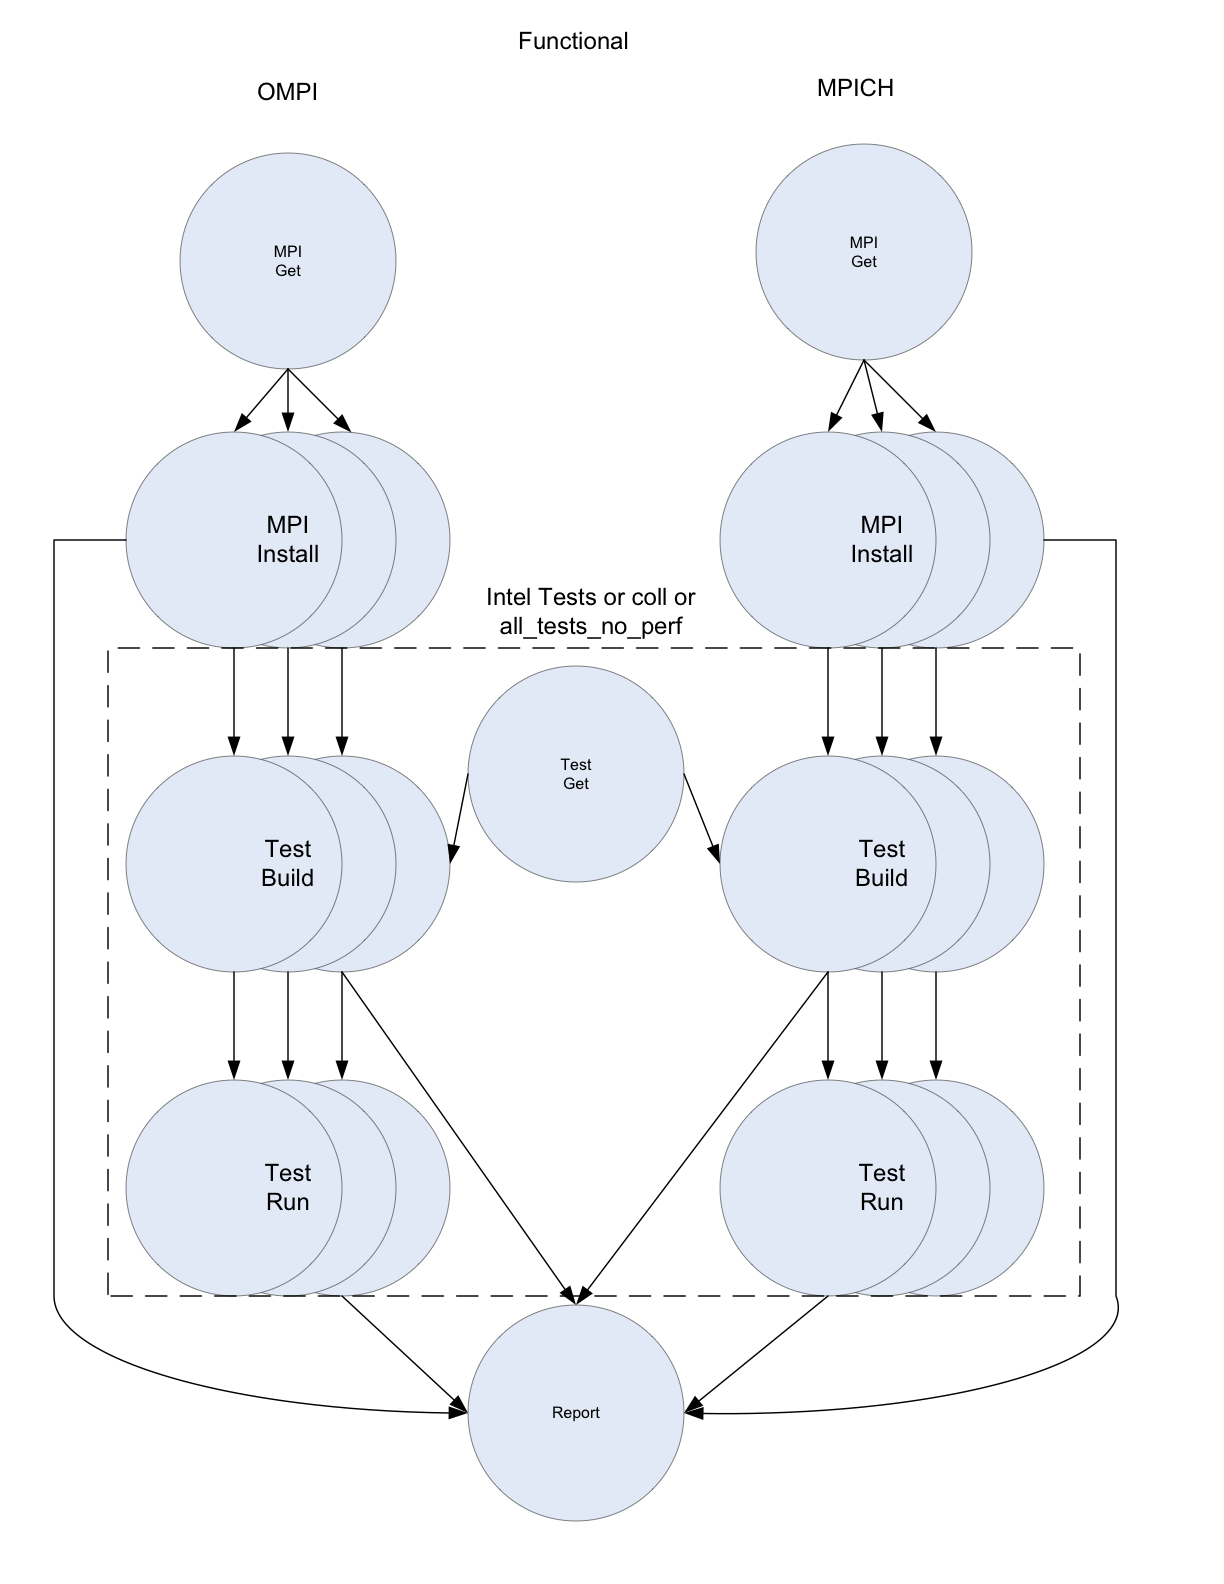
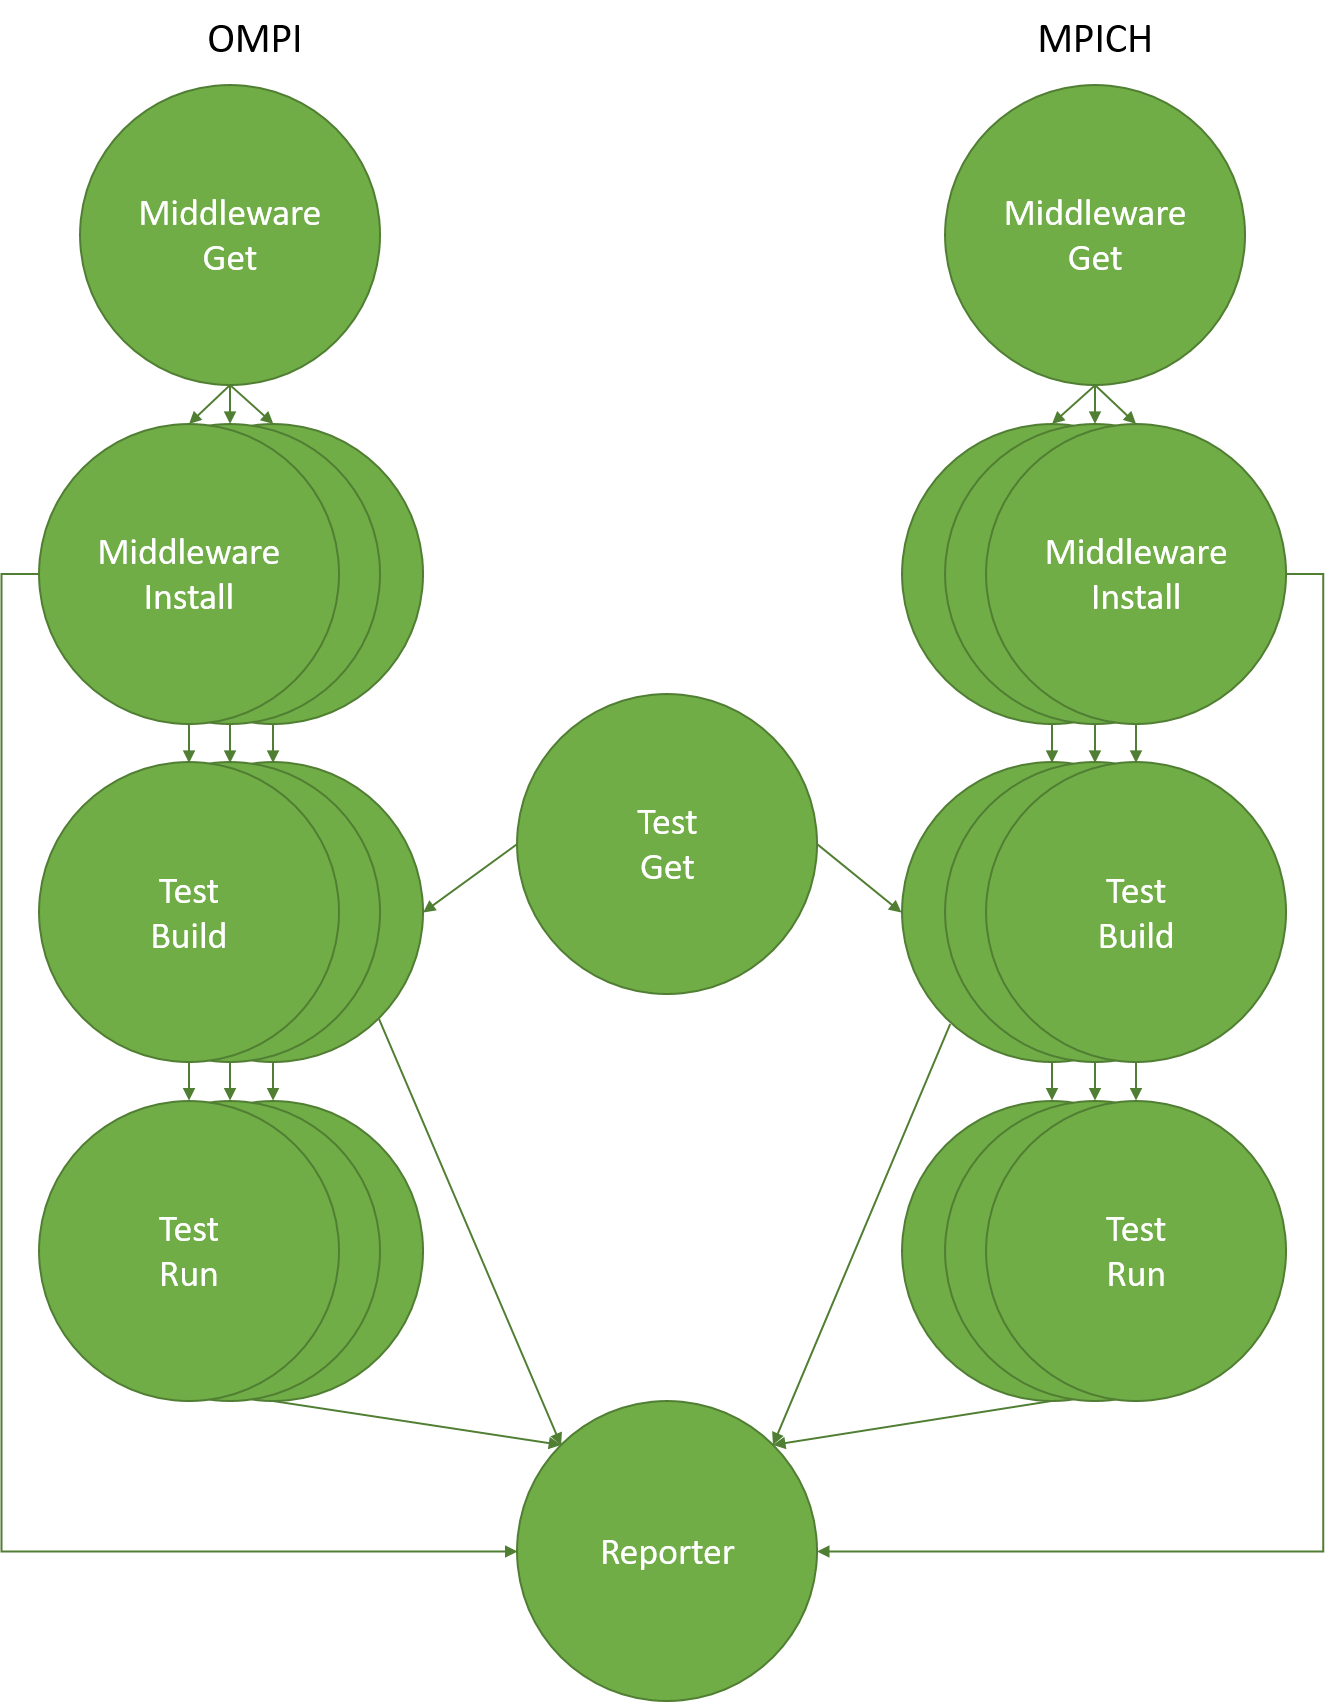
Deploy Jagaskak/mtt to github.com/Jagaskak/mtt.git:gh-pages

diff --git a/latex/refman.tex b/latex/refman.tex
@@ -67,8 +67,8 @@
 \fancyhead[RO]{\fancyplain{}{\bfseries\thepage}}
 \fancyfoot[LE]{\fancyplain{}{}}
 \fancyfoot[CE]{\fancyplain{}{}}
-\fancyfoot[RE]{\fancyplain{}{\bfseries\scriptsize Generated on Wed Aug 8 2018 22\-:40\-:21 for pymtt by Doxygen }}
-\fancyfoot[LO]{\fancyplain{}{\bfseries\scriptsize Generated on Wed Aug 8 2018 22\-:40\-:21 for pymtt by Doxygen }}
+\fancyfoot[RE]{\fancyplain{}{\bfseries\scriptsize Generated on Thu Aug 9 2018 22\-:47\-:27 for pymtt by Doxygen }}
+\fancyfoot[LO]{\fancyplain{}{\bfseries\scriptsize Generated on Thu Aug 9 2018 22\-:47\-:27 for pymtt by Doxygen }}
 \fancyfoot[CO]{\fancyplain{}{}}
 \fancyfoot[RO]{\fancyplain{}{}}
 \renewcommand{\footrulewidth}{0.4pt}
@@ -120,7 +120,7 @@
 \vspace*{1cm}
 {\large Generated by Doxygen 1.8.6}\\
 \vspace*{0.5cm}
-{\small Wed Aug 8 2018 22:40:21}\\
+{\small Thu Aug 9 2018 22:47:27}\\
 \end{center}
 \end{titlepage}
 \clearemptydoublepage

diff --git a/README.md b/README.md
@@ -13,37 +13,15 @@ order to run a common set of tests against a group of Middleware implementations
 
 # Overview
 
-The MTT divides its execution into 12 stages:
+MTT is divided into multiple phases of execution to split up grabbing content, building content, running content, and reporting results (please refer to the [INI documentation](/mtt/docs/pages/ini_docs.html) to learn more).
 
-1. MTTDefaults: Define options for test, such as description and what system it is running on
-2. BIOS: Set the BIOS settings for target nodes before running test
-3. Firmware: Install the firmware to target nodes before running test
-4. Provision: Provision the nodes with an OS before running test
-5. Profile: Collect data of current system configuration before running test 
-6. MiddlewareGet: Obtain middleware software package(s) (e.g., download, copy)
-7. MiddlewareBuild: Install the middleware software package(s) obtained in MiddlewareGet (this may involve a binary installation or a build from source)
-8. TestGet: Obtain middleware test(s)
-9. TestBuild: Build the test(s) against all middleware installations
-10. LauncherDefaults
-11. TestRun
-12. Reporter
- 
-13. MiddlewareGet: obtain middleware software package(s) (e.g., download, copy)
-14. MiddlewareBuild: install the middleware software package(s) obtained in phase 1.
-   This may involve a binary installation or a build from source.
-15. TestGet: obtain middleware test(s)
-16. TestBuild: build the test(s) against all middleware installations
-   installed in phase 2.
-17. TestRun: run all the tests build in phase 4.
-18. Report: report the results of phases 2, 4, and 5.
+The phases are divided to allow a multiplicative effect.  For example, each middleware package obtained may be installed in multiple different ways.  The built tests may be executed in multiple different ways. And so on.
 
-The phases are divided in order to allow a multiplicative effect.  For example, each MPI package obtained in phase 1 may be installed in multiple different ways in phase 2.  Tests that are built in phase 4 may be run multiple different ways in phase 5.  And so on.
-
-Phases are effectively templated to allow multiple executions of each phase based on parameterization. For example, you can specify a single middleware implementation, but have MTT compile it against both the GNU and Intel compilers. MTT will automatically track that there is one MPI source, but two installations of it. Every test suite that is specified will therefore be compiled and run against _both_ MPI installations, and their results filed accordingly. Hence, the MTT gives a multiplicitive effect. A simplistic view:
--   M MPI implementations are specified
--   I installations of each MPI implementation are specified
+Phases are effectively templated to allow multiple executions of each phase based on parameterization. For example, you can specify a single middleware implementation, but have MTT compile it against both the GNU and Intel compilers. MTT will automatically track that there is one middleware source, but two installations of it. Every test suite that is specified will therefore be compiled and run against _both_ middleware installations, and their results filed accordingly. Hence, the MTT gives a multiplicitive effect. A simplistic view:
+-   M middleware implementations are specified
+-   I installations of each middleware implementation are specified
 -   A total of (M * I) installations are created (assuming all are successful)
--   T test suites are specified, each of which is compiled against the (M * I) MPI installation
+-   T test suites are specified, each of which is compiled against the (M * I) middleware installation
 -   R different run parameters are specified for each test suite
 -   A total of (T * R * M * I) tests are run.
 
@@ -53,21 +31,17 @@ Hence, you must be careful not to specify too much work to MTT -- it will happil
 
 The following graphic is a decent representation of the relationships of the phases to each other, and the general sequence of phases. It shows two example middleware implementations (open MPI and MPICH), but any middleware implementation could be used (even multiple versions of the same middleware implementation):
 
-![](https://github.com/open-mpi/mtt/wiki/mtt-functional.png)
+![](/mtt/docs/pages/mtt-functional.png)
 
 # Quick start
-Testers run the MTT client on their systems to do all the work.  A configuration file is used to specify which MPI implementations to use and which tests to run.  
+Testers run the MTT client on their systems to do all the work.  A configuration file is used to specify which middleware implementations to use and which tests to run.  
 
 The Open MPI Project uses MTT for nightly regression testing.  A sample Python client configuration file is included in samples/python/ompi_hello_world.ini.  It is also suitable as an example for organizations outside of the Open MPI Project.
 
-## Nightly Regression Testing
-**Do we still need this?**
+# Nightly Regression Testing
 Open MPI members should visit the [MTT Wiki](https://github.com/open-mpi/mtt/wiki/OMPITesting) for instructions on how to setup for nightly regression testing.
 
-Note that the INI file can be used to specify web proxies if
-necessary.  See comments in the ompi-core-template.ini file for
-details.
-
+To configure nightly testing with Travis CI, please refer to the [Travis CI documentation](/mtt/pages/travis.html).
 
 # Running the MTT Python client
 
@@ -81,13 +55,6 @@ The MTT client has many command line options; try the following command to see t
 Some sites add an upper layer of logic/scripting above the invocation of the MTT client.  For example, some sites run the MTT on SLURM-maintained clusters.  A variety of compilers are tested, yielding multiple unique (MiddlewareGet, MiddlewareBuild, TestGet, TestBuild) tuples. Each tuple is run in its own 1-node SLURM allocation, allowing the many installations/builds to run in parallel.  When the install/build tuple has completed, more SLURM jobs are queued for  each desired number of nodes/processes to test.  These jobs all execute in parallel (pending resource availability) in order to achieve maximum utilization of the testing cluster.
 
 Other scenarios are also possible; the above is simply one way to use MTT.
-
-# Current status
-This tool was initially developed by the Open MPI team for nightly and periodic compile and regression testing.  However, enough other parties have expressed [significant] interest that we have open-sourced the tool and are eagerly accepting input from others.  Indeed, having a common tool to help objectively evaluate Middlware implementations may be an enormous help to the High Performance Computing (HPC) community at large.
-
-We have no illusions of MTT becoming the be-all/end-all tool for testing software -- we do want to keep it somewhat focused on the needs and requires of testing Middleware implementations.  As such, the usage flow is somewhat structured towards that bias.
-
-It should be noted that the software has been mostly developed internally to the Open MPI project and will likely experience some growing pains while adjusting to a larger community.
 
 # How to cite this software
 

diff --git a/pages/tips_and_tricks.md b/pages/tips_and_tricks.md
@@ -1,0 +1,30 @@
+# INI File Creation
+MTT offers a high degree of flexibility by allowing phases to be effectively parameterized allowing for multiple executions of each phase.
+
+Caution needs to be executed when creating an INI file that will not take days (or weeks!) to complete. Use the ```--print-time``` option to see how long each phase is taking to help tune your INI file.
+
+# Run Time Execution
+We recommend running with  `--verbose`. This provides a decent amount of output that confirms that most MTT things are running. However, if you run into weird issues that cannot be explained, run with  `--debug`. This will provide a  _lot_  of output (you'll want to save both stdout and stderr into a file for later analysis).
+
+# Compiler Configuration
+Some compilers (such as the Intel compilers) require additional environment variables such as PATH and LD_LIBRARY_PATH to be set properly in order to find their relevant parts. It is easiest to simply set these values  _before_  invoking the MTT client, but it is also possible to set them within the INI file directly (so that you don't have to worry about local environments). However, the syntax is a little odd, so it's worth describing here:
+```
+[MPI Install: Intel compiler]
+...all the other fields...
+setenv = PATH /path/to/intel/compiler/bin:/usr/bin/:...rest of path
+setenv = LD_LIBRARY_PATH /path/to/intel/compiler/lib:...rest of LD path
+```
+# MPI Install Errors
+Sometimes MTT finds a problem in a middleware install, but a human wants to go examine it manually. When MTT installs a middleware under its scratch tree, it will automatically drop two files -- one for sh-flavored shells and one for csh-flavored shells -- that set the PATH and LD_LIBRARY_PATH to get to the middleware install. The exact location of these files depends on the section names in your INI file and the exact version number of the MPI in question. Specifically, these files will be in:
+```
+<patch to your scratch>/installs/<MPI Get name>/<MPI Install name>/<MPI version number>/mpi_installed_vars.sh
+<patch to your scratch>/installs/<MPI Get name>/<MPI Install name>/<MPI version number>/mpi_installed_vars.csh
+```
+
+Hence, you can source these files like this (assuming a csh-flavored shell):
+```
+shell% cd <patch to your scratch>/installs/<MPI Get name>/<MPI Install name>/<MPI version number>
+shell% source mpi_installed_vars.csh
+```
+
+Mpicc, mpirun, etc. will then be in your PATH, and the appropriate libraries will be in your LD_LIBRARY_PATH. Additionally, the environment variable MPI_ROOT will be set that points to the top-level installation directory for the middlewareBuild. This is useful with Open MPI's ```--prefix``` option to mpirun, for example. Note that  _all_  the files related to the testing of that MPI are under this tree -- the source tree, the tests, etc. So you can go examine the entire test -- not just put the MPI in question in your path.
